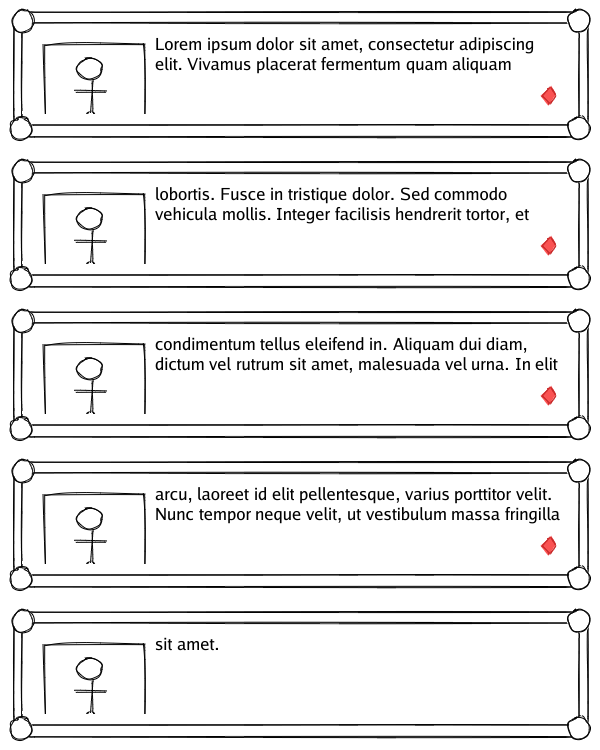
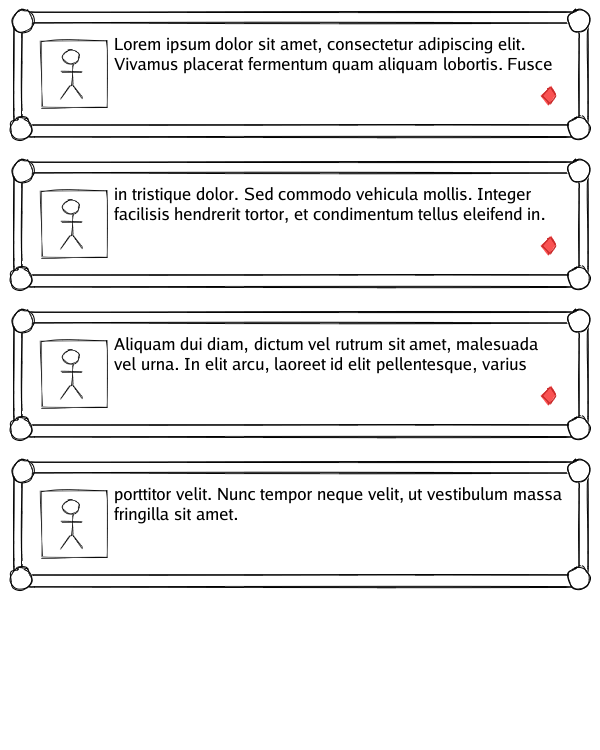
Chevron end of text location update - center fix

diff --git a/textbox.go b/textbox.go
@@ -118,7 +118,7 @@ func NewSimpleTextBox(th theme.Theme, text string, destSize image.Point, options
 		option.apply(tb)
 	}
 	if tb.moreChevronLocation == TextEndChevron {
-		tb.wordwrapOptions = append(tb.wordwrapOptions, wordwrap.NewPageBreakBox(wordwrap.NewImageBox(th.Chevron())))
+		tb.wordwrapOptions = append(tb.wordwrapOptions, wordwrap.NewPageBreakBox(wordwrap.NewImageBox(th.Chevron(), wordwrap.ImageBoxMetricCenter(th.FontDrawer()))))
 	}
 	if tb.wrapper == nil {
 		tb.wrapper = wordwrap.NewSimpleWrapper(text, th.FontFace(), tb.wordwrapOptions...)
@@ -238,16 +238,18 @@ func NewSimpleLayout(tb *TextBox, destRect image.Rectangle) (*SimpleLayout, erro
 	case CenterBottomInsideTextFrame, CenterBottomInsideFrame, RightBottomInsideTextFrame, RightBottomInsideFrame:
 		l.textRect.Max.Y -= l.chevronRect.Dy()
 	case CenterBottomOnFrameTextFrame, CenterBottomOnFrameFrame, RightBottomOnFrameTextFrame, RightBottomOnFrameFrame:
-		l.textRect.Max.Y -= util.Max(l.chevronRect.Dy()-destRect.Dy(), 0)
+		ydiff := util.Max(l.chevronRect.Dy()-(destRect.Max.Y-l.textRect.Max.Y), 0)
+		l.textRect.Max.Y -= ydiff
+		l.chevronRect = l.chevronRect.Sub(image.Pt(0, ydiff))
 	default:
 		return nil, fmt.Errorf("unknown more chevron location %v", tb.moreChevronLocation)
 	}
 	switch tb.moreChevronLocation {
 	case NoMoreChevron, TextEndChevron:
 	case CenterBottomInsideTextFrame, CenterBottomOnFrameTextFrame:
-		l.chevronRect = l.chevronRect.Add(image.Pt(l.textRect.Min.X+(l.textRect.Dx()+l.chevronRect.Dx())/2, l.textRect.Max.Y))
+		l.chevronRect = l.chevronRect.Add(image.Pt(l.textRect.Min.X+(l.textRect.Dx()-l.chevronRect.Dx())/2, l.textRect.Max.Y))
 	case CenterBottomInsideFrame, CenterBottomOnFrameFrame:
-		l.chevronRect = l.chevronRect.Add(image.Pt(l.centerRect.Min.X+(l.centerRect.Dx()+l.chevronRect.Dx())/2, l.textRect.Max.Y))
+		l.chevronRect = l.chevronRect.Add(image.Pt(l.centerRect.Min.X+(l.centerRect.Dx()-l.chevronRect.Dx())/2, l.textRect.Max.Y))
 	case RightBottomInsideTextFrame, RightBottomInsideFrame:
 		l.chevronRect = l.chevronRect.Add(image.Pt(l.textRect.Max.X-l.chevronRect.Dx(), l.textRect.Max.Y))
 	case RightBottomOnFrameTextFrame, RightBottomOnFrameFrame:
